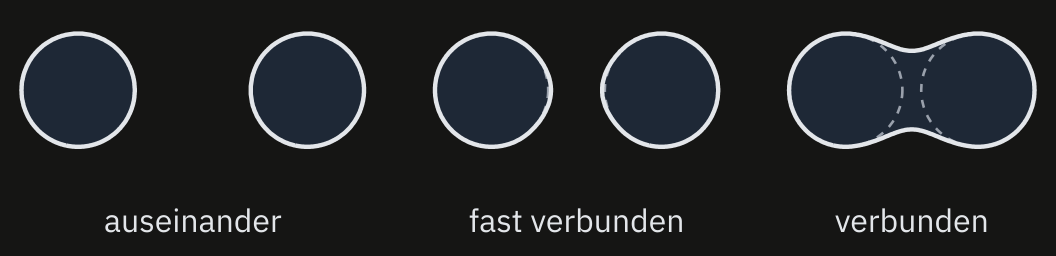
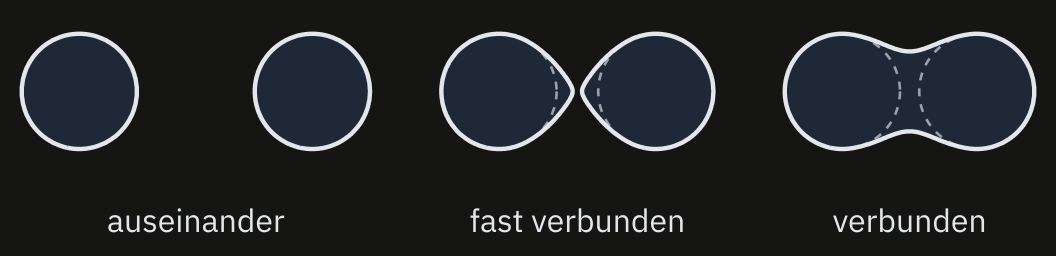
GLSL metaballs: »fast verbunden« just before they join (centres 1.144 apart), the two drops drawn out into points with a hair-thin gap

diff --git a/src/content/glsl/bilder/smin.py b/src/content/glsl/bilder/smin.py
@@ -157,9 +157,10 @@ def contours(field, xs, ys, limit=20000):
 def metaballs():
     w, h = 528, 128
     s = head(w, h, 'Zwei Tropfen in 2D, mit smin wie im Shader (Radius 0.42, k = 0.6), gestrichelt die Kreise allein. '
-             'Auseinander: genau zwei Kreise. Fast verbunden: Beide wölben sich zueinander, ein schmaler Spalt bleibt. '
+             'Auseinander: genau zwei Kreise. Fast verbunden: Beide ziehen sich spitz zueinander aus, bis auf einen haarfeinen Spalt. '
              'Verbunden: Ein Hals verbindet sie.', 'metaballs')
-    cases = [(1.7, 'auseinander'), (1.26, 'fast verbunden'), (0.98, 'verbunden')]
+    # fast verbunden: just above 2r + k/2 = 1.14, the gap is about 0.07 (4.7 px)
+    cases = [(1.7, 'auseinander'), (1.144, 'fast verbunden'), (0.98, 'verbunden')]
     widths = [dist + 2 * R + 0.2 for dist, _ in cases]          # each panel as wide as its case
     gap = 22
     scale = (w - 2 * gap - 8) / sum(widths)

diff --git a/src/content/glsl/glsl.md b/src/content/glsl/glsl.md
@@ -536,7 +536,7 @@ Auf einer Linie durch zwei Tropfen sieht man, was `smin` tut:
 
 In 2D, mit den Zahlen aus dem Shader, sieht das so aus: Sind sich zwei Tropfen nah genug, wölben sie sich einander entgegen, und kommen sie noch näher, wächst der Hals.
 
-<img class='drawing' style='width: 33em' src='metaballs.webp' alt='Dreimal zwei Tropfen in 2D, gestrichelt jeweils die beiden Kreise allein. Auseinander: genau zwei Kreise. Fast verbunden: Beide wölben sich zueinander, ein schmaler Spalt bleibt. Verbunden: Ein Hals verbindet sie zu einer Form wie eine Erdnuss.'>
+<img class='drawing' style='width: 33em' src='metaballs.webp' alt='Dreimal zwei Tropfen in 2D, gestrichelt jeweils die beiden Kreise allein. Auseinander: genau zwei Kreise. Fast verbunden: Beide ziehen sich spitz zueinander aus, bis auf einen haarfeinen Spalt. Verbunden: Ein Hals verbindet sie zu einer Form wie eine Erdnuss.'>
 
 Kugeln, die so ineinanderfließen, heißen **Metaballs**. Erfunden hat sie Jim Blinn um 1980, für Bilder von Atomen in einer Fernsehserie. Bei ihm hat jede Kugel ein Feld, das mit dem Abstand schwächer wird, so wie das Licht einer Lampe. Die Felder aller Kugeln werden addiert, und die Oberfläche liegt dort, wo die Summe einen bestimmten Wert erreicht. Kommen sich zwei Kugeln nahe, ist die Summe zwischen ihnen groß, und die Oberfläche wölbt sich hinüber. Das weiche Minimum macht dasselbe mit Abständen, so wie Raymarching sie braucht.
 
